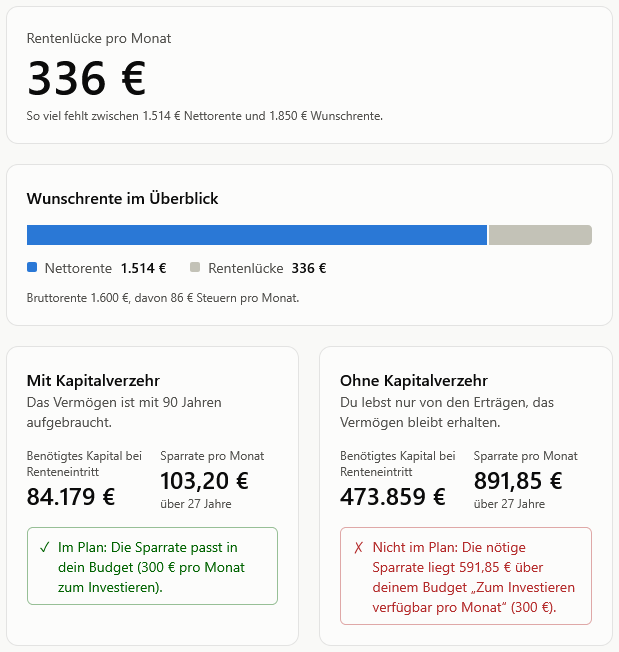
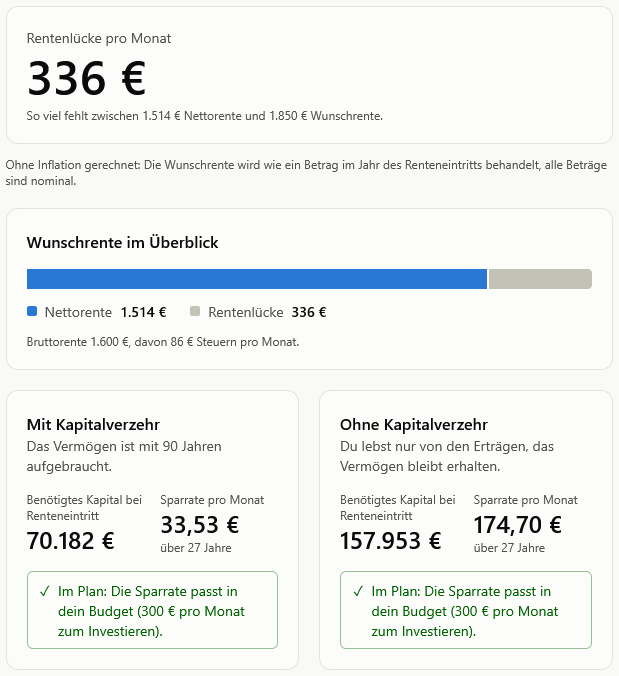
Keep inflation a shared parameter that is off by default; show a note when it is accounted for

diff --git a/src/lib/i18n/en.ts b/src/lib/i18n/en.ts
@@ -1105,6 +1105,10 @@ export const en: Dictionary = {
     series: { saving: "Saving", payout: "Withdrawal" },
     heroLabel: "Pension gap per month",
     heroCovered: "Your expected net pension covers the desired pension.",
+    inflationOn: (rate) =>
+      `Calculated with inflation (${rate} per year): the desired pension counts in today's purchasing power, and all amounts are in today's purchasing power.`,
+    inflationOff:
+      "Calculated without inflation: the desired pension is treated like an amount in the year of retirement, all amounts are nominal.",
     heroNote: (net, desired) =>
       `This is missing between ${net} net pension and ${desired} desired pension.`,
     overviewTitle: "Desired pension at a glance",
@@ -1145,7 +1149,7 @@ export const en: Dictionary = {
     phase: "Phase",
     assumptions: [
       "The tax deduction applies to the pension above the basic allowance and to returns in retirement; capital gains tax reduces the return until retirement.",
-      "With “Account for inflation” (the default) the desired pension counts as an amount in today's purchasing power: returns are reduced by the inflation rate, and capital, savings rate and pension gap are in today's purchasing power. Unchecked, the desired pension would be treated like an amount in the year of retirement.",
+      "With “Account for inflation” the desired pension counts as an amount in today's purchasing power: returns are reduced by the inflation rate, and capital, savings rate and pension gap are in today's purchasing power. Unchecked, the desired pension would be treated like an amount in the year of retirement.",
       "Savings are paid at the end of the month, withdrawals at the beginning; interest monthly.",
       "Health and long-term care insurance on the pension are not included.",
       "Formulas derived from the results of the Finanzfluss calculator.",

diff --git a/src/lib/i18n/de.ts b/src/lib/i18n/de.ts
@@ -1156,6 +1156,10 @@ export const de = {
     series: { saving: "Ansparen", payout: "Entnahme" },
     heroLabel: "Rentenlücke pro Monat",
     heroCovered: "Deine erwartete Nettorente deckt die Wunschrente.",
+    inflationOn: (rate: string) =>
+      `Mit Inflation gerechnet (${rate} pro Jahr): Die Wunschrente gilt in heutiger Kaufkraft, und alle Beträge stehen in heutiger Kaufkraft.`,
+    inflationOff:
+      "Ohne Inflation gerechnet: Die Wunschrente wird wie ein Betrag im Jahr des Renteneintritts behandelt, alle Beträge sind nominal.",
     heroNote: (net: string, desired: string) =>
       `So viel fehlt zwischen ${net} Nettorente und ${desired} Wunschrente.`,
     overviewTitle: "Wunschrente im Überblick",
@@ -1205,7 +1209,7 @@ export const de = {
     phase: "Phase",
     assumptions: [
       "Der Steuerabzug gilt für die Rente oberhalb des Grundfreibetrags und für die Erträge im Ruhestand; die Kapitalertragsteuer mindert die Rendite bis zur Rente.",
-      "Mit „Inflation berücksichtigen“ (Voreinstellung) gilt die Wunschrente als Betrag in heutiger Kaufkraft: Es wird mit Renditen nach Abzug der Inflationsrate gerechnet, und Kapital, Sparrate und Rentenlücke stehen in heutiger Kaufkraft. Ohne den Haken würde die Wunschrente wie ein Betrag im Jahr des Renteneintritts behandelt.",
+      "Mit „Inflation berücksichtigen“ gilt die Wunschrente als Betrag in heutiger Kaufkraft: Es wird mit Renditen nach Abzug der Inflationsrate gerechnet, und Kapital, Sparrate und Rentenlücke stehen in heutiger Kaufkraft. Ohne den Haken würde die Wunschrente wie ein Betrag im Jahr des Renteneintritts behandelt.",
       "Sparraten fließen am Monatsende, Entnahmen am Monatsanfang; Zinsen monatlich.",
       "Kranken- und Pflegeversicherung auf die Rente sind nicht berücksichtigt.",
       "Formeln aus den Ergebnissen des Finanzfluss-Rechners hergeleitet.",

diff --git a/src/components/pension-gap/pension-gap-calculator.tsx b/src/components/pension-gap/pension-gap-calculator.tsx
@@ -183,6 +183,7 @@ function Results({
   const { t, f } = useLocale();
   const text = t.pensionGap;
   const [view, setView] = useState<"with" | "without">("with");
+  const { shared } = useSettingsEditor().settings;
   // Falls back to the first course when the second does not exist (the interest is not enough).
   const showing = view === "without" && result.yearsWithoutConsumption ? "without" : "with";
   const shownYears =
@@ -218,6 +219,12 @@ function Results({
               )
         }
       />
+
+      <p className="-mt-2 text-xs text-ink-2">
+        {input.considerInflation
+          ? text.inflationOn(f.percent(shared.inflationRate))
+          : text.inflationOff}
+      </p>
 
       {surplus && (
         <section

diff --git a/src/app/page.tsx b/src/app/page.tsx
@@ -9,7 +9,7 @@ import { getDictionary, getLocale } from "@/lib/i18n/server";
 /** Pixel sizes of the screenshots in public/screenshots, per language. */
 const SCREENSHOTS = [
   { key: "plan", file: "plan", size: { de: [619, 869], en: [619, 869] } },
-  { key: "pensionGap", file: "pension-gap", size: { de: [619, 652], en: [619, 668] } },
+  { key: "pensionGap", file: "pension-gap", size: { de: [619, 676], en: [619, 692] } },
   { key: "avDepot", file: "av-depot", size: { de: [619, 928], en: [619, 912] } },
 ] as const;
 

diff --git a/src/lib/settings/schema.ts b/src/lib/settings/schema.ts
@@ -104,8 +104,7 @@ export const numberFields = {
 } satisfies Record<string, Record<string, NumberFieldSpec>>;
 
 export const toggleFields = {
-  // On by default: the desired pension is entered in today's purchasing power.
-  shared: { considerInflation: true },
+  shared: { considerInflation: false },
   "av-depot": {},
   "pension-gap": {
     /** Calculate the saving phase like the savings calculator (its tax, costs, interval). */

diff --git a/TODO.md b/TODO.md
@@ -33,9 +33,9 @@ different numbers here than there.
 | Default values here | €200,002 | €237.50 | €542,659 | €644.39 |
 | Age 30, payout until 100, return until retirement 5 % | €309,185 | €327.51 | €542,659 | €574.81 |
 
-These numbers are with "Inflation berücksichtigen" switched off. The switch is
-on by default now (the desired pension is in today's purchasing power); with the
-default values the capital is then €231,049 and the savings rate €362.75.
+These numbers are with "Inflation berücksichtigen" switched off (the default).
+With the switch on (the desired pension is in today's purchasing power) the
+capital is €231,049 and the savings rate €362.75.
 
 The second row is the result of the Finanzfluss page. The pension gap itself is
 €1,153 per month in both cases.
